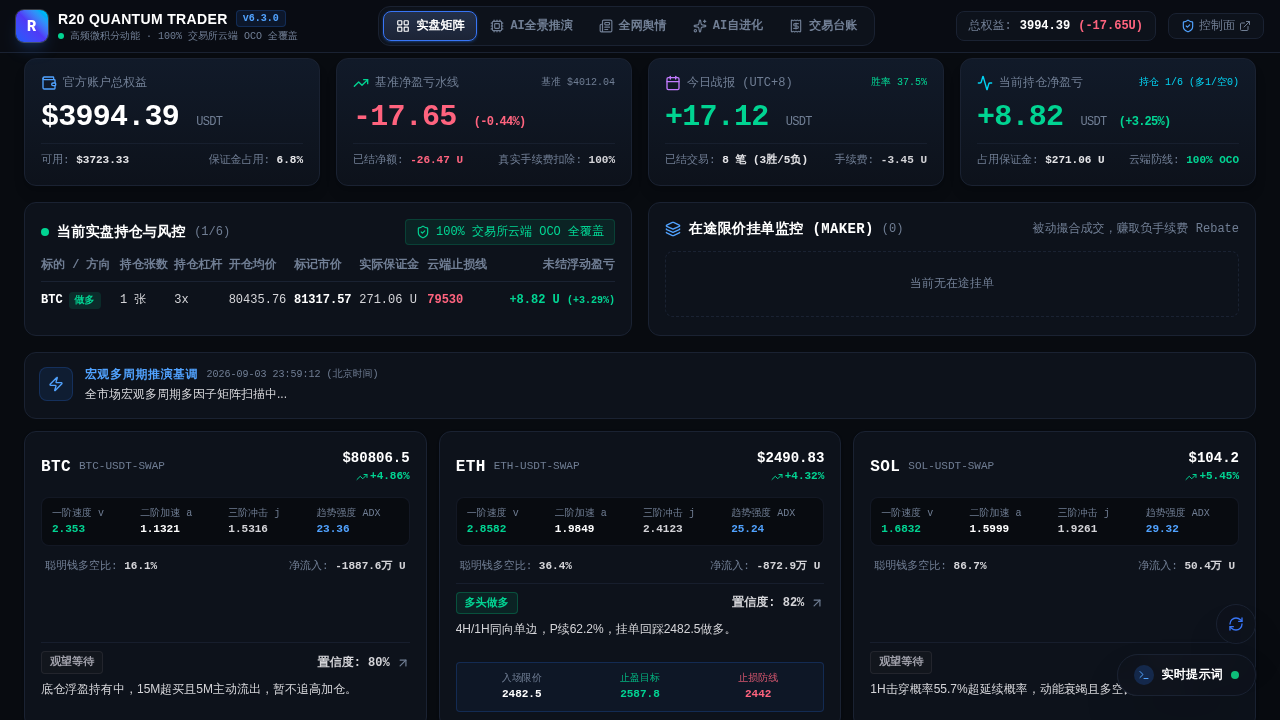
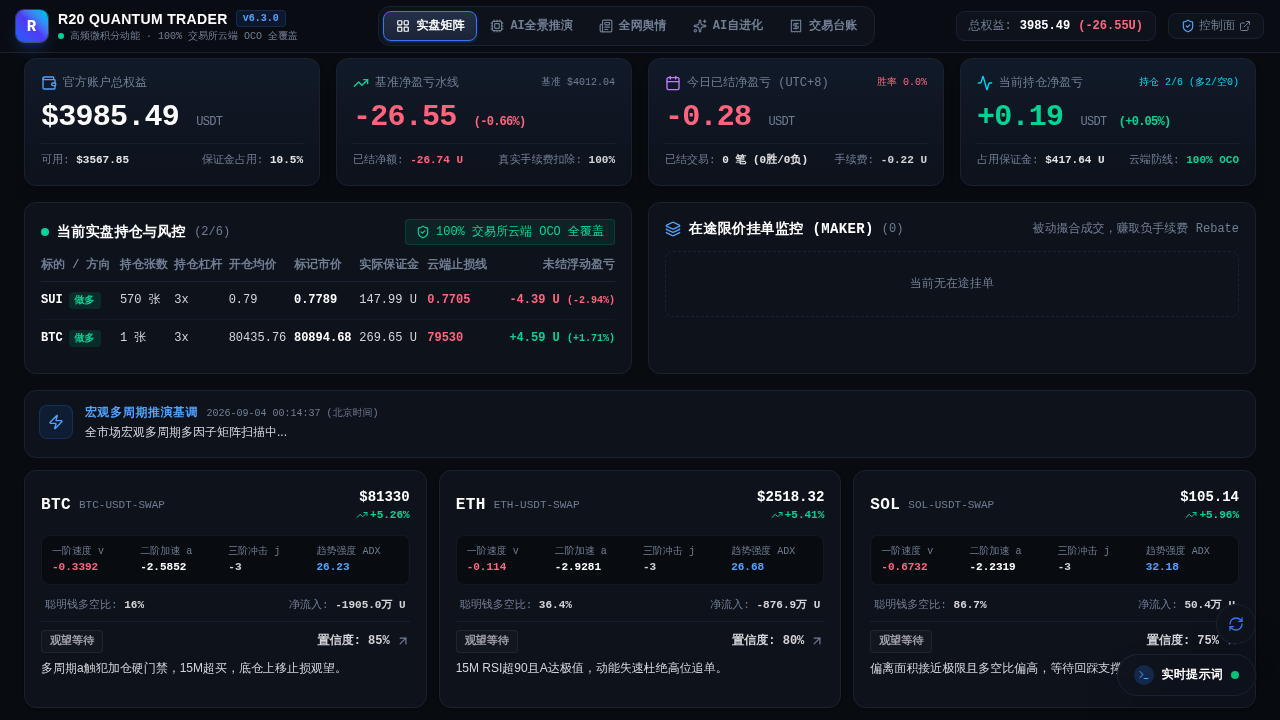
fix: decouple today realized net PnL from position floating upl in TopHudRibbon

diff --git a/frontend/src/components/TopHudRibbon.vue b/frontend/src/components/TopHudRibbon.vue
@@ -17,7 +17,7 @@ const benchmarkRoi = computed(() => Number(account.value.cum_roi_pct || 0).toFix
 const initialCap = computed(() => Number(account.value.initial_capital || 0).toFixed(2))
 const cumRealizedPnl = computed(() => Number(account.value.cum_realized_pnl || 0).toFixed(2))
 
-const todayNet = computed(() => Number(today.value.total_pnl ?? today.value.net_realized ?? 0).toFixed(2))
+const todayNet = computed(() => Number(today.value.net_realized ?? today.value.total_pnl ?? 0).toFixed(2))
 const todayWinrate = computed(() => Number(today.value.win_rate || 0).toFixed(1))
 const todayTrades = computed(() => (today.value.win_trades || 0) + (today.value.loss_trades || 0))
 
@@ -93,12 +93,12 @@ const allProtected = computed(() =>
       </div>
     </div>
 
-    <!-- Card 3: 今日净盈亏与战报 (UTC+8) -->
+    <!-- Card 3: 今日已结净盈亏 (UTC+8) -->
     <div class="bg-gradient-to-b from-[#111a29] to-[#0D121B] border border-[#1A2232] rounded-xl p-4 flex flex-col justify-between shadow-lg">
       <div class="flex items-center justify-between text-[#707E94] text-xs font-mono mb-2">
         <div class="flex items-center space-x-1.5">
           <Calendar class="w-4 h-4 text-purple-400" />
-          <span>今日战报 (UTC+8)</span>
+          <span>今日已结净盈亏 (UTC+8)</span>
         </div>
         <span class="text-[10px] font-mono" :class="Number(todayNet) >= 0 ? 'text-emerald-400' : 'text-rose-400'">
           胜率 {{ todayWinrate }}%
